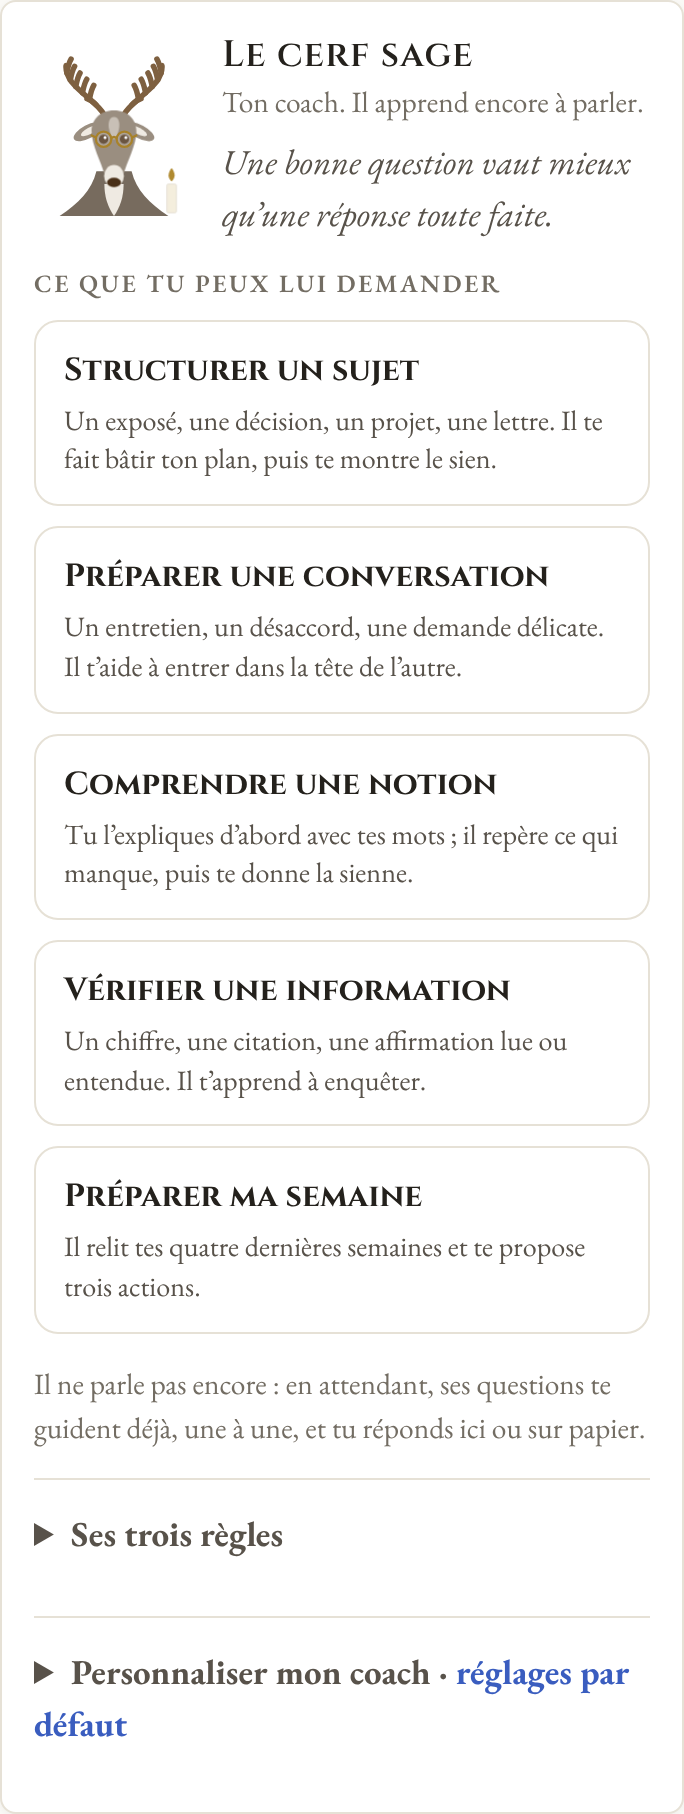
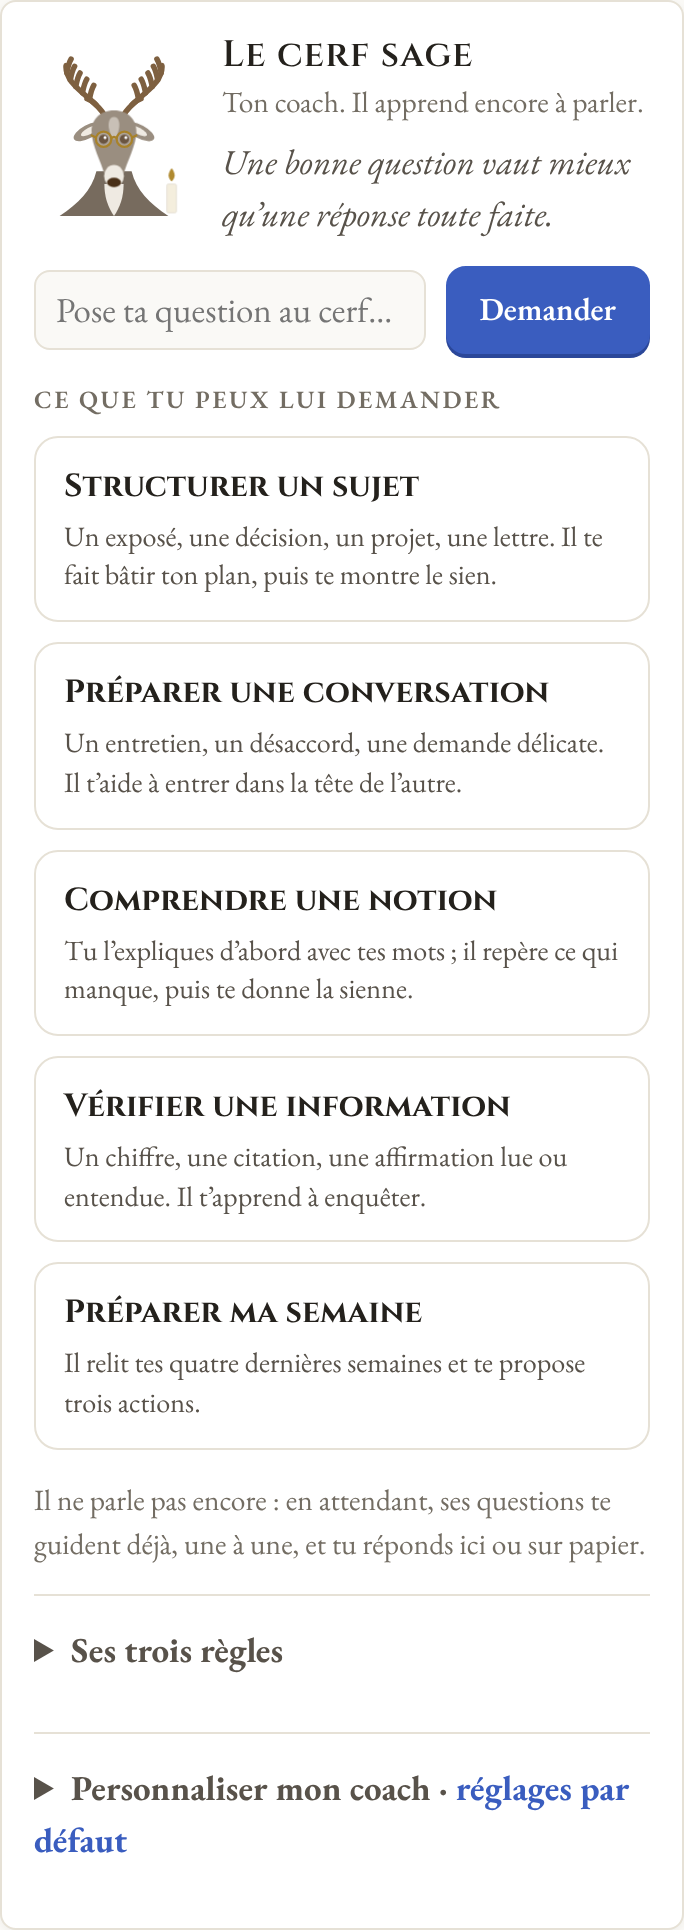
Cerf sage : la question libre juste sous le cerf, avant les cartes
Sans coach branché, la question passe dans le sas (ta réponse d'abord).

Claude-Session: https://claude.ai/code/session_01LZgnsfXhq5W2oSvKzopyTZ

diff --git a/public/index.html b/public/index.html
@@ -262,6 +262,9 @@ select,input[type="text"]{font:inherit;color:var(--fg);background:var(--bg);bord
 .sage-txt{min-width:0;display:flex;flex-direction:column;gap:2px}
 .sage-txt h2{margin:0}
 .sage-say{margin:4px 0 0;font-style:italic;color:var(--fg2);line-height:1.45}
+.sage-ask{display:flex;flex-direction:column;gap:8px}
+.sage-ask .chat:empty{display:none}
+#coach-status:empty{display:none}
 #sage-menu{display:flex;flex-direction:column;gap:8px}
 .sage-cards{display:grid;grid-template-columns:repeat(2,1fr);gap:10px}
 .sage-card{display:flex;flex-direction:column;gap:4px;text-align:left;border:1px solid var(--line);background:var(--surface);border-radius:12px;padding:12px 14px;font:inherit;color:var(--fg);cursor:pointer;transition:border-color .2s,transform .12s}
@@ -1233,6 +1236,14 @@ var fin=function(){if(e.parentNode)e.remove();};e.addEventListener('click',fin);
     <div class="panel" id="coach-panel">
       <div class="sage-head"><span class="stag sage" id="sage-stag" aria-hidden="true"></span>
         <div class="sage-txt"><h2>Le cerf sage</h2><p class="muted note" id="coach-state"></p><p class="sage-say" id="sage-say"></p></div></div>
+      <div class="sage-ask">
+        <div class="chat" id="coach-chat"></div>
+        <form class="row" id="coach-form" style="flex-wrap:nowrap">
+          <input type="text" id="coach-q" placeholder="Pose ta question au cerf…" aria-label="Ta question au cerf" style="flex:1;min-width:0" autocomplete="off">
+          <button class="btn primary" id="coach-send" type="submit">Demander</button>
+        </form>
+        <p class="note" id="coach-status"></p>
+      </div>
       <div id="sage-menu">
         <span class="label">Ce que tu peux lui demander</span>
         <div class="sage-cards" id="sage-cards"></div>
@@ -1243,12 +1254,6 @@ var fin=function(){if(e.parentNode)e.remove();};e.addEventListener('click',fin);
         <span class="note" id="coach-review-date" hidden></span>
         <div class="coachout" id="coach-review-out" hidden></div>
         <div class="row" id="coach-goal" hidden><span class="fg2" id="coach-goal-text" style="min-width:0;overflow-wrap:anywhere"></span><button class="btn" id="coach-goal-adopt">Adopter cet objectif</button></div>
-        <div class="chat" id="coach-chat"></div>
-        <form class="row" id="coach-form" style="flex-wrap:nowrap">
-          <input type="text" id="coach-q" placeholder="Une autre question pour le cerf…" style="flex:1;min-width:0" autocomplete="off">
-          <button class="btn" id="coach-send" type="submit">Envoyer</button>
-        </form>
-        <p class="note" id="coach-status"></p>
       </div>
       <p class="note" id="coach-off-why"></p>
       <details class="tutor-box"><summary><span>Ses trois règles</span></summary>
@@ -3991,6 +3996,10 @@ $('#coach-review').addEventListener('click',async()=>{
 });
 $('#coach-form').addEventListener('submit',async e=>{
   e.preventDefault(); const q=$('#coach-q').value.trim(); if(!q)return;
+  // tant qu'il ne parle pas, la question passe par le sas : ta réponse d'abord
+  if(!coachOn){$('#sas-q').value=q;$('#coach-q').value='';sasUpdate();sasDraft();
+    $('#coach-status').textContent='Il ne parle pas encore : ta question t’attend dans le sas, juste au-dessus. Écris d’abord ta propre réponse.';
+    $('#sas-panel').scrollIntoView({behavior:'smooth',block:'start'});setTimeout(()=>$('#sas-mine').focus({preventScroll:true}),400);return;}
   $('#coach-q').value=''; $('#coach-send').disabled=true;
   const chat=$('#coach-chat'); chat.append(el('div',{class:'me',text:q}));
   const out=el('div',{class:'coachout'}); chat.append(out);
